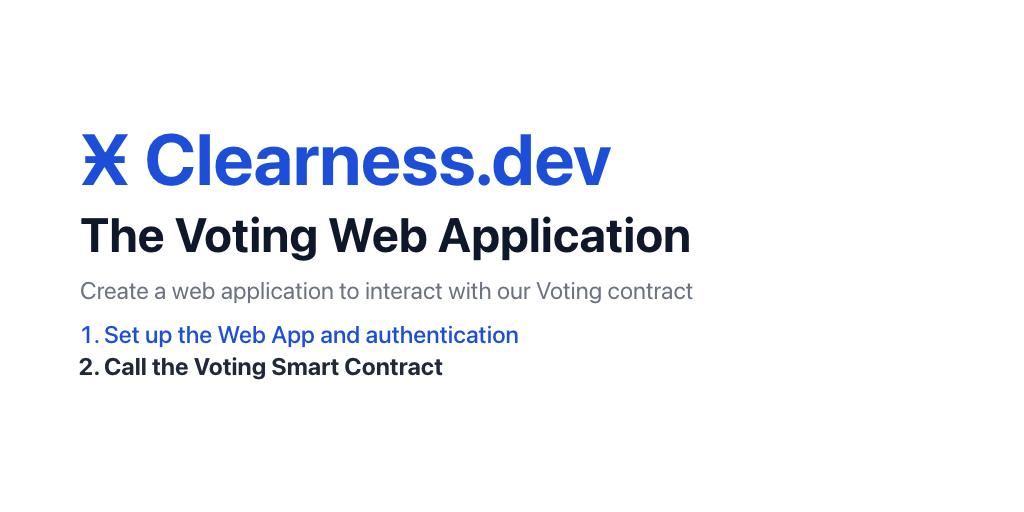
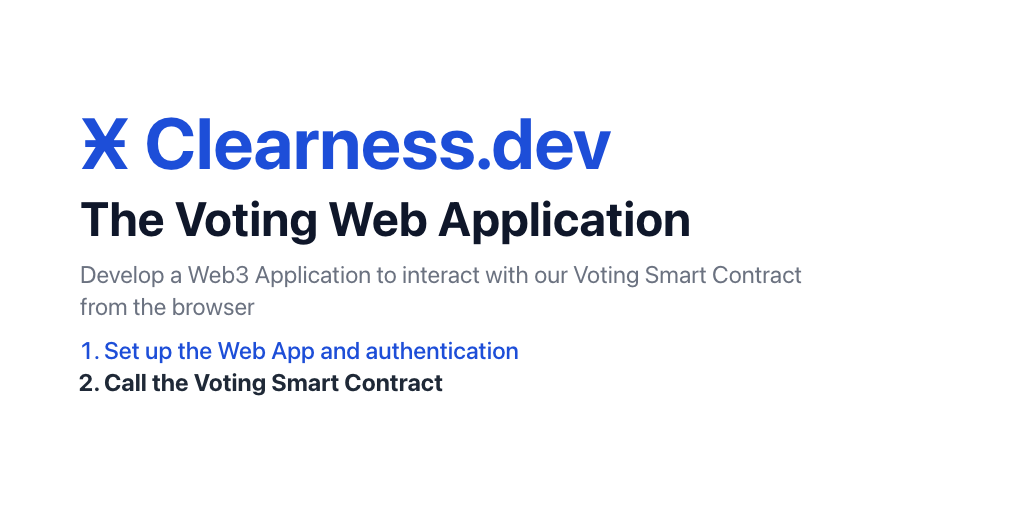
improve webapp series meta

Changed region(s): [[0.0625, 0.2188, 0.7812, 0.7812]]

diff --git a/app/routes/__posts/03-build-the-voting-client/index.md b/app/routes/__posts/03-build-the-voting-client/index.md
@@ -2,7 +2,7 @@
 headers:
   Cache-Control: public, max-age=0, must-revalidate, s-maxage=2592000
 title: The Voting Web Application
-description: Create a web application to interact with our Voting contract
+description: Develop a Web3 Application to interact with our Voting Smart Contract from the browser
 posts:
   01-setup-web3-application:
     title: Set up the Web App and authentication
